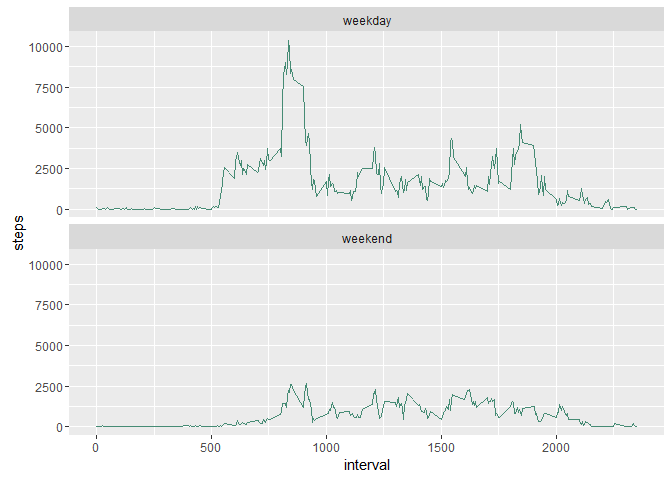
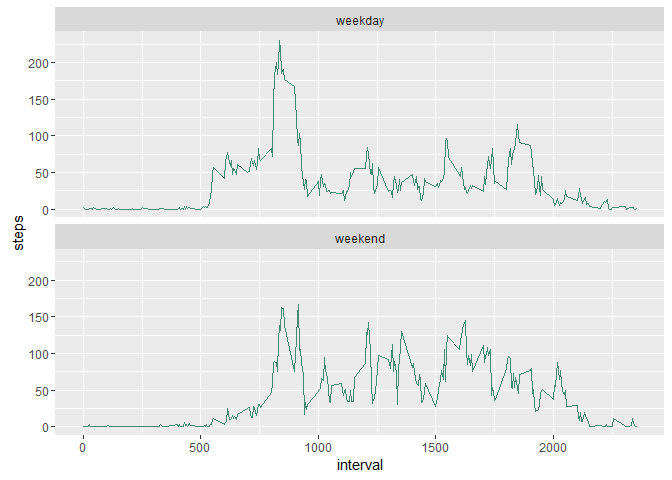
Change sum to mean in part 5

diff --git a/PA1_template.html b/PA1_template.html
@@ -214,10 +214,10 @@ merged$weekfactor &lt;- as.factor(merged$weekfactor)</code></pre>
 <p>The results are plotted.</p>
 <pre class="r"><code>merged_interval &lt;- merged %&gt;% 
     group_by(interval, weekfactor) %&gt;% 
-    summarise(steps = sum(steps))
+    summarise(steps = mean(steps))
 
 ggplot(merged_interval, aes(interval,steps))+geom_line(color=&quot;aquamarine4&quot;)+facet_wrap(~weekfactor, nrow=2)</code></pre>
[2 lines of base64/hex data omitted]
 </div>
 
 

diff --git a/PA1_template.md b/PA1_template.md
@@ -207,7 +207,7 @@ The results are plotted.
 ```r
 merged_interval <- merged %>% 
     group_by(interval, weekfactor) %>% 
-    summarise(steps = sum(steps))
+    summarise(steps = mean(steps))
 
 ggplot(merged_interval, aes(interval,steps))+geom_line(color="aquamarine4")+facet_wrap(~weekfactor, nrow=2)
 ```
